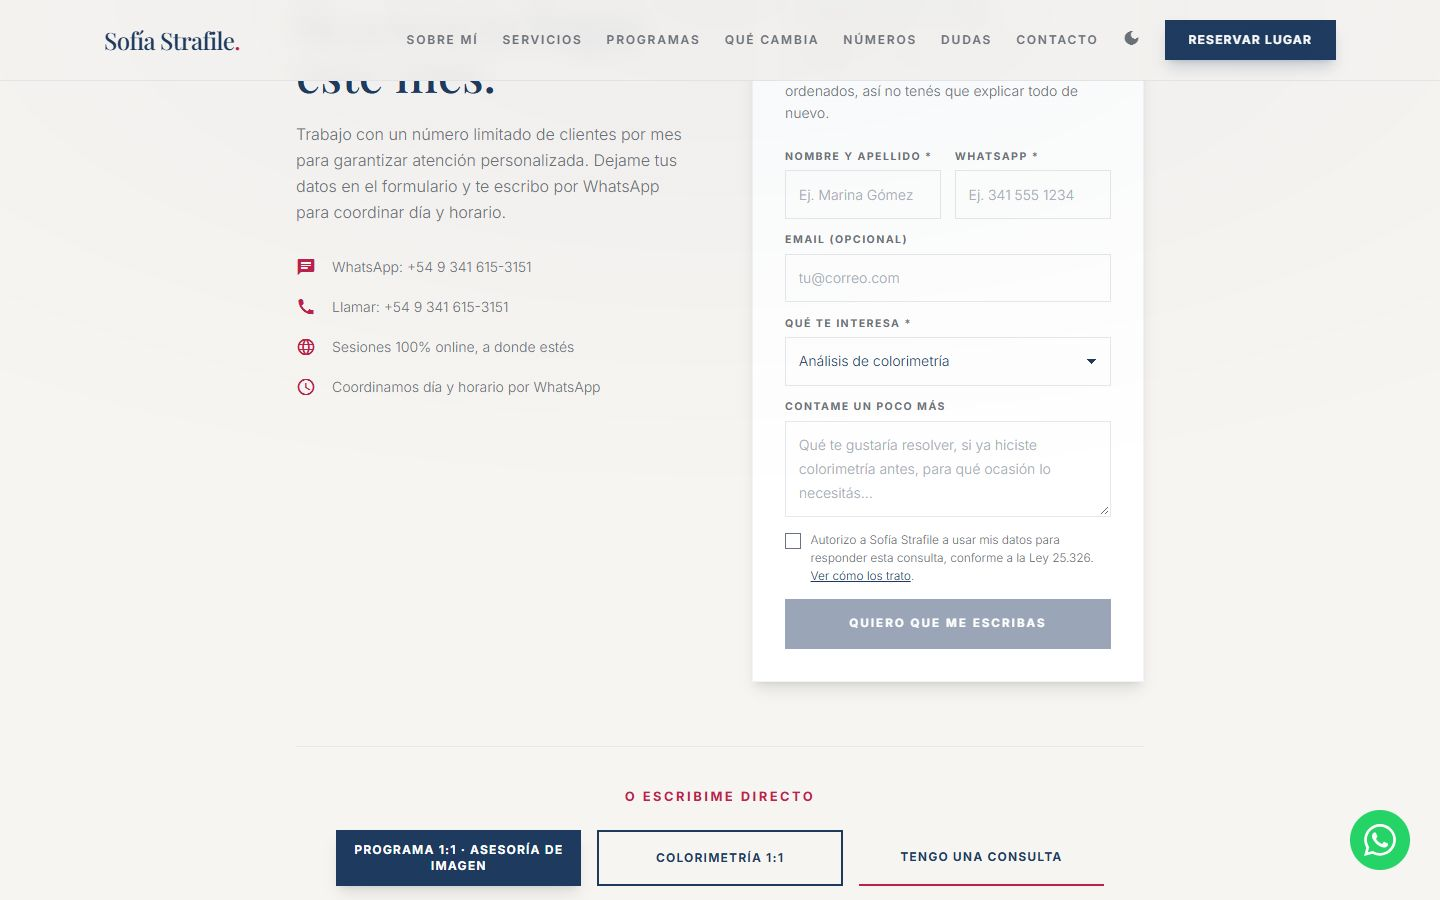
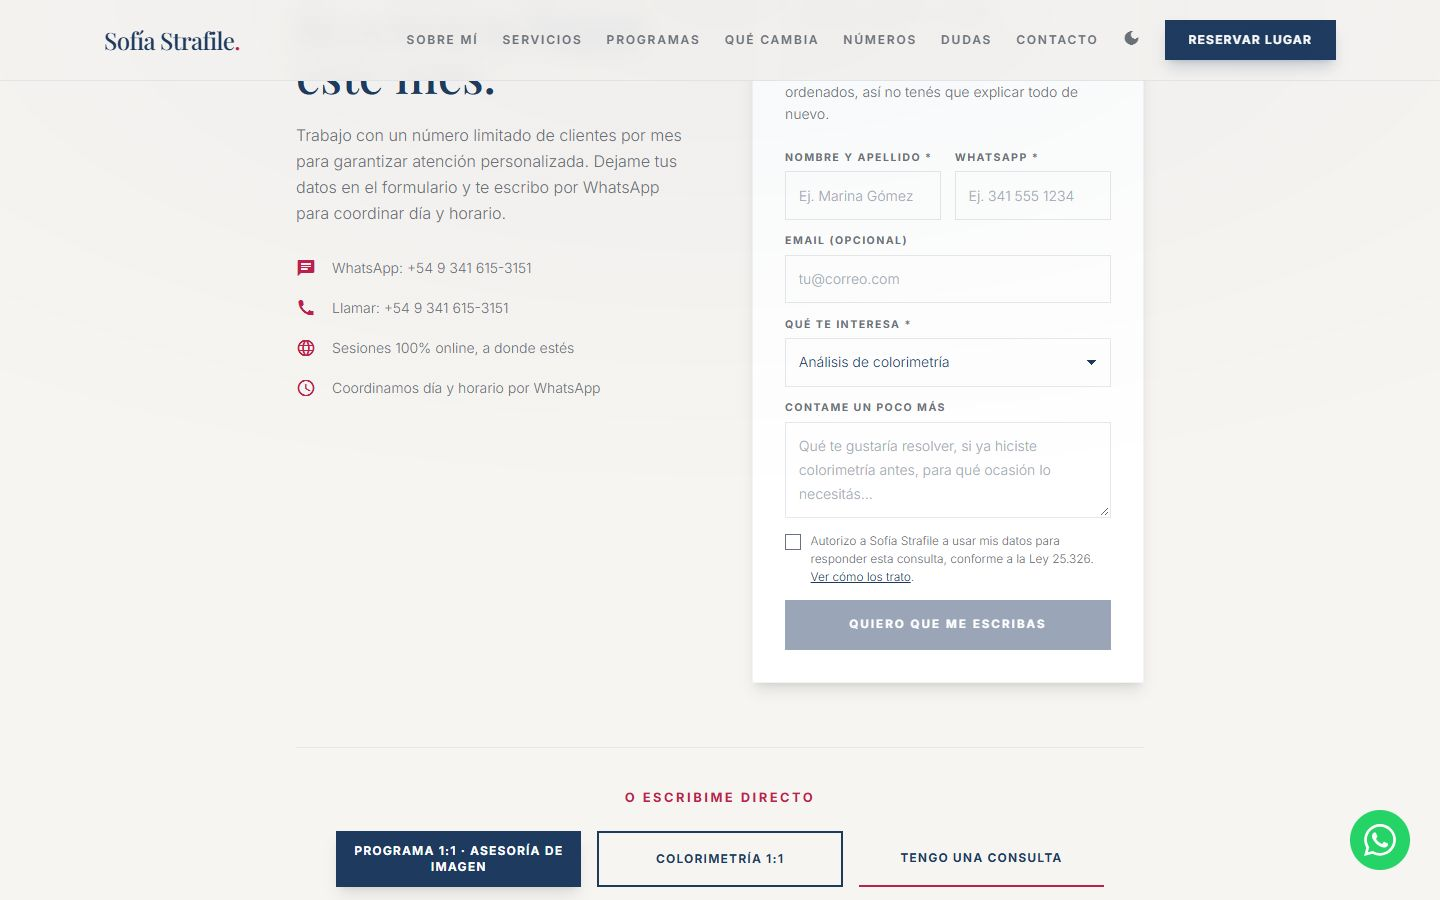
feat(captura): cada consulta web llega etiquetada en la primera línea
Sin API de WhatsApp: la etiqueta va en el primer renglón del mensaje porque es
lo único que se ve en la lista de chats, antes de abrir la conversación.

- "Consulta web · colorimetría" / "· programa Renovación" en vez de un genérico
- los enlaces directos (cabecera, flotante, pie) dicen "(web)"
- tests: 23 (3 nuevos: etiqueta en primera línea, sin interés, y todo enlace
  directo marcado). El pedido de datos de #privacidad queda exceptuado.
- doc para Sofía: etiquetas de WhatsApp Business, catálogo con precios y
  respuestas rápidas para vender sin API

diff --git a/02-sitio/index.html b/02-sitio/index.html
@@ -333,7 +333,7 @@
         <span class="material-icons text-[18px]">dark_mode</span>
       </button>
       <a class="bg-primary dark:bg-accent text-white dark:text-primary px-6 py-3 text-xs font-bold tracking-widest uppercase hover:opacity-90 transition shadow-lg shadow-primary/20"
-        href="https://wa.me/5493416153151?text=Hola%20Sofia!%20Quiero%20coordinar%20una%20asesor%C3%ADa">Reservar lugar</a>
+        href="https://wa.me/5493416153151?text=Hola%20Sofia!%20(web)%20Quiero%20coordinar%20una%20asesor%C3%ADa">Reservar lugar</a>
     </div>
     <div class="md:hidden flex items-center gap-4">
       <button onclick="document.documentElement.classList.toggle('dark')" class="text-primary dark:text-white"
@@ -357,7 +357,7 @@
     <a class="block text-sm font-semibold uppercase tracking-widest text-slate-700 dark:text-slate-200 hover:text-accent py-1" href="#faq">Dudas</a>
     <a class="block text-sm font-semibold uppercase tracking-widest text-slate-700 dark:text-slate-200 hover:text-accent py-1" href="#reserva">Contacto</a>
     <a class="block bg-primary text-white text-center py-3 text-sm font-bold uppercase tracking-widest mt-2"
-      href="https://wa.me/5493416153151?text=Hola%20Sofia!%20Quiero%20coordinar%20una%20asesor%C3%ADa">Reservar lugar</a>
+      href="https://wa.me/5493416153151?text=Hola%20Sofia!%20(web)%20Quiero%20coordinar%20una%20asesor%C3%ADa">Reservar lugar</a>
   </div>
 </nav>
 
@@ -379,7 +379,7 @@
         </p>
         <div class="flex flex-col sm:flex-row gap-4 pt-2">
           <a class="btn-pulse bg-primary dark:bg-white text-white dark:text-primary px-8 py-4 text-sm uppercase tracking-wider font-bold hover:bg-primary/90 dark:hover:bg-slate-100 transition-all shadow-xl text-center"
-            href="https://wa.me/5493416153151?text=Hola%20Sofia!%20Quiero%20reservar%20una%20asesor%C3%ADa%20de%20imagen">
+            href="https://wa.me/5493416153151?text=Hola%20Sofia!%20(web)%20Quiero%20reservar%20una%20asesor%C3%ADa%20de%20imagen">
             Reservar tu asesoría
           </a>
           <a class="border-2 border-primary/30 dark:border-white/30 text-primary dark:text-white px-8 py-4 text-sm uppercase tracking-wider font-bold hover:bg-primary/5 dark:hover:bg-white/5 transition text-center"
@@ -761,7 +761,7 @@
         </p>
         <div class="flex flex-col space-y-5">
           <a class="flex items-center gap-4 text-sm font-light text-slate-600 dark:text-slate-300 hover:text-accent transition"
-            href="https://wa.me/5493416153151?text=Hola%20Sofia!%20Quiero%20coordinar%20una%20asesor%C3%ADa"
+            href="https://wa.me/5493416153151?text=Hola%20Sofia!%20(web)%20Quiero%20coordinar%20una%20asesor%C3%ADa"
             target="_blank" rel="noopener">
             <span class="material-icons text-accent text-[20px]" aria-hidden="true">chat</span> WhatsApp: +54 9 341 615-3151
           </a>
@@ -847,7 +847,7 @@
           <noscript>
             <p class="lf-note">
               El formulario necesita JavaScript. Escribime directo por
-              <a href="https://wa.me/5493416153151?text=Hola%20Sofia!%20Quiero%20coordinar%20una%20asesor%C3%ADa"
+              <a href="https://wa.me/5493416153151?text=Hola%20Sofia!%20(web)%20Quiero%20coordinar%20una%20asesor%C3%ADa"
                 target="_blank" rel="noopener">WhatsApp: +54 9 341 615-3151</a>.
             </p>
           </noscript>
@@ -866,7 +866,7 @@
           href="https://wa.me/p/25673960648860647/5493416153151" target="_blank" rel="noopener">
           Colorimetría 1:1</a>
         <a class="block w-full text-center border-b-2 border-accent pb-2 text-xs font-bold uppercase tracking-widest text-primary dark:text-white hover:text-accent transition-colors"
-          href="https://wa.me/5493416153151?text=Hola%20Sofia!%20Tengo%20una%20consulta%20sobre%20la%20asesor%C3%ADa"
+          href="https://wa.me/5493416153151?text=Hola%20Sofia!%20(web)%20Tengo%20una%20consulta%20sobre%20la%20asesor%C3%ADa"
           target="_blank" rel="noopener">
           Tengo una consulta</a>
       </div>
@@ -953,7 +953,7 @@
 </footer>
 
 <!-- Botón flotante de WhatsApp -->
-<a href="https://wa.me/5493416153151?text=Hola%20Sofia!%20Me%20interesa%20tu%20asesor%C3%ADa%20de%20imagen"
+<a href="https://wa.me/5493416153151?text=Hola%20Sofia!%20(web)%20Me%20interesa%20tu%20asesor%C3%ADa%20de%20imagen"
   class="whatsapp-float shadow-2xl" target="_blank" rel="noopener" title="Escribime por WhatsApp"
   aria-label="Escribime por WhatsApp">
   <svg width="32" height="32" viewBox="0 0 24 24" fill="currentColor" xmlns="http://www.w3.org/2000/svg" aria-hidden="true">

diff --git a/02-sitio/assets/lead-capture.js b/02-sitio/assets/lead-capture.js
@@ -103,11 +103,22 @@
   /**
    * Arma el texto que llega al WhatsApp de Sofía. Corto y ordenado: el mensaje lo
    * lee una persona en el celular, no un parser.
+   *
+   * La PRIMERA línea es la etiqueta: es lo único que se ve en la lista de chats,
+   * antes de abrir la conversación. Así ella sabe de qué servicio viene cada
+   * persona sin leer nada y sin ninguna API de por medio.
    */
   function buildLeadMessage(datos, servicios) {
     var d = datos || {};
+    var elegido = null;
+    var lista = servicios || SERVICIOS;
+    for (var i = 0; i < lista.length; i += 1) {
+      if (lista[i].value === d.interes) elegido = lista[i];
+    }
+    var etiqueta = 'Consulta web' + (elegido ? ' · ' + elegido.corto : '');
+
     var lineas = [
-      'Consulta desde el sitio web',
+      etiqueta,
       '',
       'Nombre: ' + String(d.nombre || '').trim(),
       'WhatsApp: ' + String(d.whatsapp || '').trim(),

diff --git a/00-auditoria/remedicion-2026-11/ETIQUETAS-Y-CATALOGO-WHATSAPP.md b/00-auditoria/remedicion-2026-11/ETIQUETAS-Y-CATALOGO-WHATSAPP.md
@@ -1,0 +1,104 @@
+# Marcar los contactos y vender por WhatsApp, sin API
+
+**Para:** Sofía Strafile · **Armado:** 10 de noviembre de 2026
+**Idea:** todo lo de este documento se hace desde la app **WhatsApp Business** del celular (gratis).
+No hace falta la API, ni un servidor, ni pagar nada.
+
+---
+
+## 1 · Lo que ya llega marcado solo
+
+Desde hoy, toda persona que escribe desde el sitio entra al chat con **la primera línea ya escrita**.
+Y la primera línea es justo lo que se ve en la lista de chats, antes de abrir la conversación:
+
+```
+Consulta web · colorimetría        ← esto se ve en la lista, sin abrir nada
+Consulta web · programa Renovación
+Consulta web · orientación
+```
+
+Además, los botones que abren WhatsApp sin pasar por el formulario (la cabecera, el botón flotante,
+el pie) dicen **«Hola Sofía! (web)…»**. Así ninguna consulta de la web queda sin marcar, entre por
+donde entre.
+
+**Lo que esto te da:** con solo mirar la lista de chats sabés **qué servicio está generando consultas**.
+No hay que abrir nada, ni anotar nada, ni acordarse de nada.
+
+---
+
+## 2 · Las etiquetas de WhatsApp Business (2 toques por contacto)
+
+En WhatsApp Business, dentro de un chat: menú **⋮ → Etiquetar**. Creá estas seis y usá sólo estas
+(nombre corto, sin acentos ni espacios, para que no se confundan):
+
+| Etiqueta | Cuándo |
+|---|---|
+| `lead-web` | entró desde el sitio y todavía no compró |
+| `colorimetria` | consultó o compró análisis de color |
+| `asesoria` | consultó o compró la asesoría 1:1 |
+| `guardarropa` | consultó o compró armado de guardarropa |
+| `pago` | dejó seña o pagó completo |
+| `no-contesto` | le escribiste y no respondió (para el recontacto) |
+
+Un contacto puede tener dos: `lead-web` + `colorimetria`.
+
+**Regla de oro:** la etiqueta se pone **cuando termina la conversación**, no cuando empieza. Al
+principio ya sabés de dónde viene (está en el mensaje); lo que la etiqueta agrega es el **resultado**:
+compró, no compró, no contestó.
+
+Con seis etiquetas alcanza para saber, en un mes: cuántos leads web entraron, qué servicio pidieron
+más, y cuántos terminaron en pago. Eso es todo el tablero que necesitás para decidir qué contenido
+hacer y qué programa empujar.
+
+---
+
+## 3 · Para promover la compra: el catálogo
+
+Tu sitio ya tiene dos links a tu catálogo de WhatsApp (`wa.me/p/…`): el programa 1:1 y colorimetría.
+Cuando alguien toca uno, **ve el producto con el precio y puede escribirte desde ahí**. Ese es el
+camino de compra más corto que existe sin API.
+
+Para que funcione de verdad, cada programa del catálogo necesita:
+
+1. **Nombre claro** (ej. «Programa Renovación · 10 looks + 14 días»)
+2. **Precio visible** — si preferís no publicar el número, poné el rango o «desde»
+3. **Qué incluye**, en tres líneas
+4. **Cómo se paga** en la descripción: transferencia / Mercado Pago / cuotas, y si hay seña
+
+Con el catálogo completo, la persona no te escribe para *preguntar cuánto sale*: te escribe para
+*comprar*. Esa es la diferencia entre una consulta y una venta.
+
+Falta el tercer link (Programa Transformación): se crea en el catálogo y se agrega al sitio en
+cinco minutos.
+
+### Mensajes rápidos (Respuestas rápidas de WhatsApp Business)
+
+Creá tres y se escriben con `/`:
+
+- `/precios` → lista de los tres programas con valores y qué incluye
+- `/pago` → formas de pago, seña y cómo se reserva el horario
+- `/recordatorio` → «Hola {nombre}, te reservo el lugar de {programa}. ¿Transferís la seña y te
+  confirmo el horario?»
+
+---
+
+## 4 · Una seña antes de la sesión
+
+Es lo que convierte «me interesa» en venta y lo que evita el ausentismo. No requiere API: es un
+alias o un link de pago mandado por el mismo chat, y la respuesta rápida `/pago` lo explica en un
+mensaje. La etiqueta `pago` se pone cuando entra la seña.
+
+---
+
+## 5 · Lo que sí requiere algo más (para que no te sorprenda)
+
+| Querés saber | ¿Se puede sin API? |
+|---|---|
+| De qué servicio viene cada persona | **Sí** — ya está en la primera línea del mensaje |
+| Cuántos leads web entraron este mes | **Sí** — contás las conversaciones con `lead-web` |
+| Quién compró y quién no | **Sí** — etiquetas `pago` / `no-contesto` |
+| **Cuánta gente abrió el chat y no escribió** | **No** — WhatsApp no avisa. Requiere un contador de clics aparte (una hoja de cálculo, no la API) |
+| Respuesta automática fuera de horario | No sin API. Se reemplaza con el mensaje de ausencia de WhatsApp Business |
+| Recordatorios automáticos el día antes | No sin API. Se reemplaza con `/recordatorio` a mano |
+
+Nada de la columna «No» es urgente. La primera tabla es la que decide si el sitio funciona.

diff --git a/LEEME-correcciones.md b/LEEME-correcciones.md
@@ -113,6 +113,12 @@ URL en `<meta name="lead-endpoint" content="https://…">` del `<head>`. El form
 hacer `POST` JSON con `{nombre, whatsapp, email, interes, interesLabel, mensaje, consent, origen,
 utm, referrer, pagina, enviado}` y cambia el mensaje de éxito. No hay que tocar nada más.
 
+**Cómo llega cada consulta al WhatsApp de Sofía:** la **primera línea** del mensaje es la etiqueta
+(`Consulta web · colorimetría`) porque es lo único que se ve en la lista de chats, sin abrir la
+conversación. Los enlaces que abren WhatsApp sin pasar por el formulario dicen `(web)`. Así toda
+consulta originada en el sitio queda marcada sin ninguna API de por medio. El uso de etiquetas y del
+catálogo para vender está en `00-auditoria/remedicion-2026-11/ETIQUETAS-Y-CATALOGO-WHATSAPP.md`.
+
 **Verificado**
 
 ```
